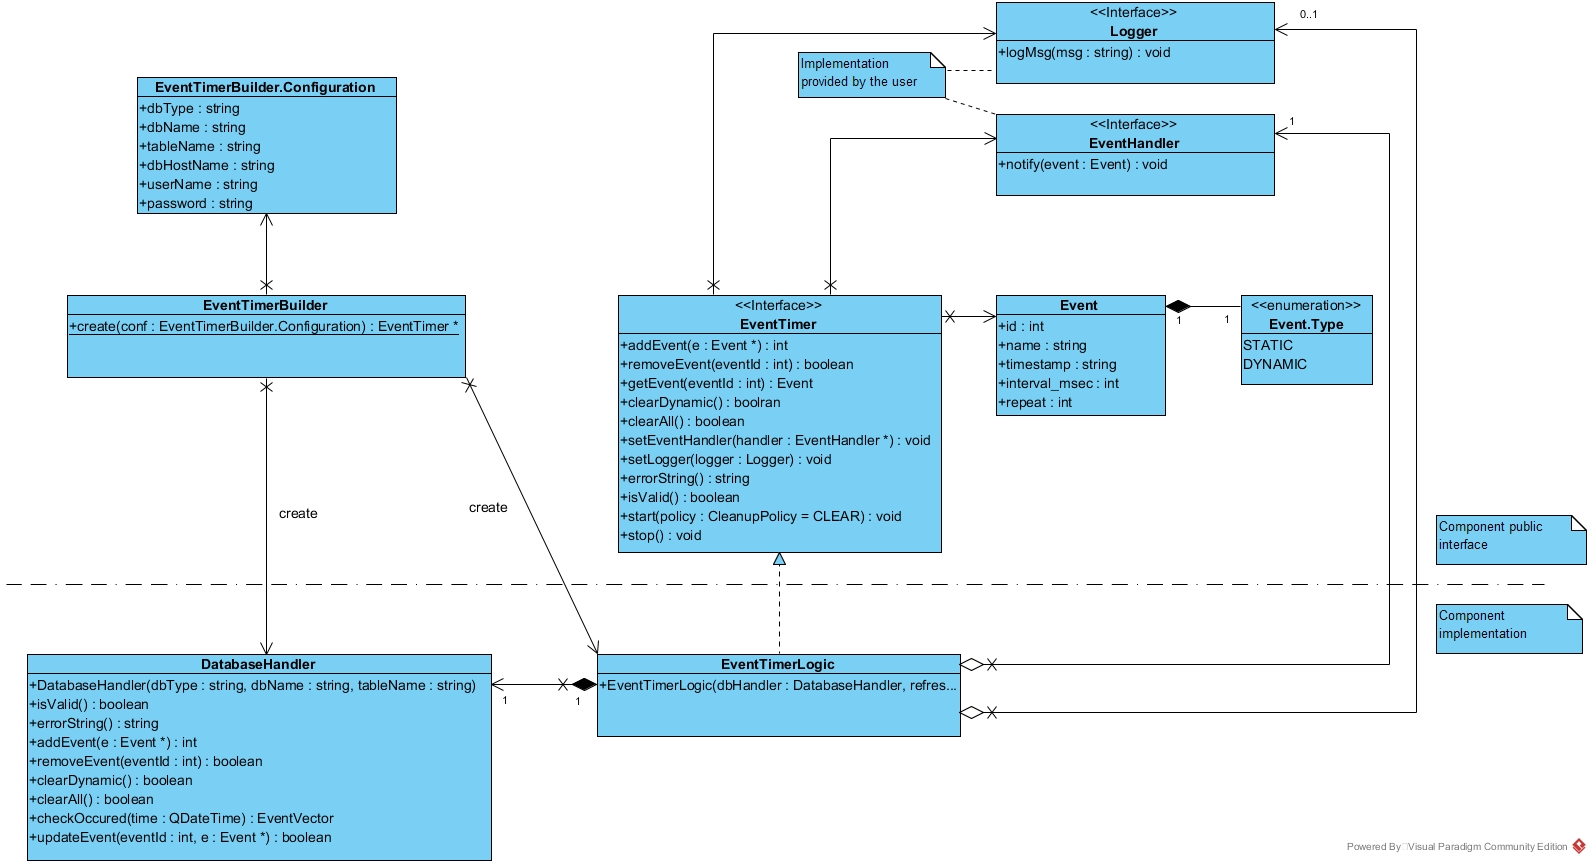
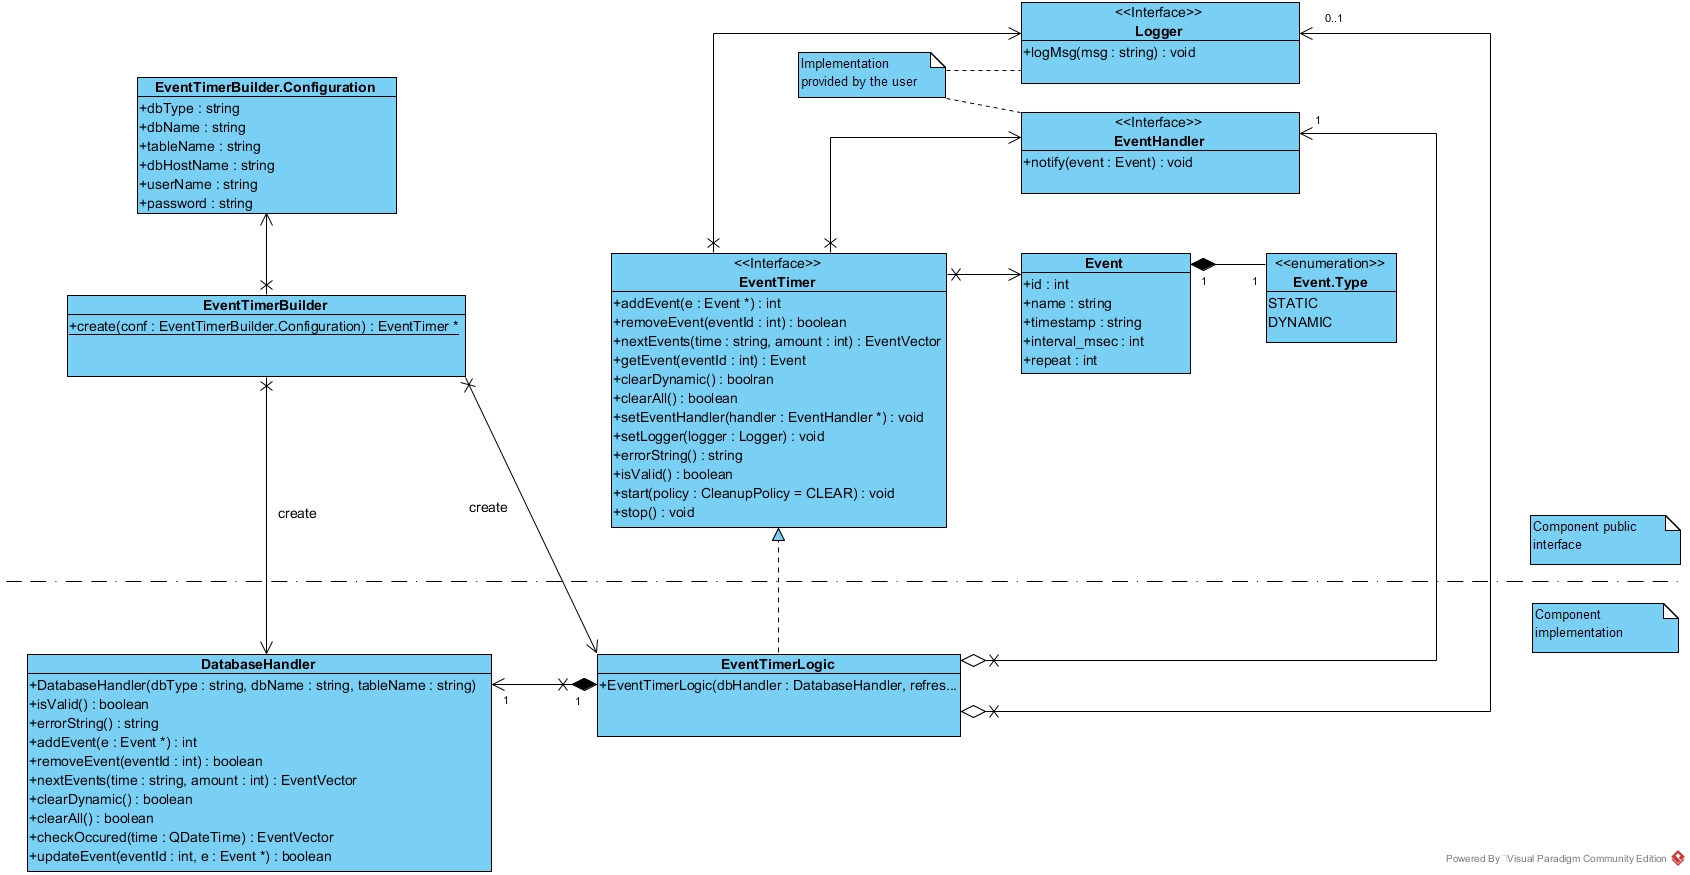
Implemented getting next events.

diff --git a/UnitTests/DatabaseHandlerBenchmark/tst_databasehandlerbenchmark.cc b/UnitTests/DatabaseHandlerBenchmark/tst_databasehandlerbenchmark.cc
@@ -47,6 +47,12 @@ private Q_SLOTS:
     void getEventSingle_data();
 
     /**
+     * @brief Test getting next events in relatively small db (get 3 out of 20).
+     */
+    void nextEventsBenchmark();
+    void nextEventsBenchmark_data();
+
+    /**
      * @brief Benchmark adding, updating and removing single element.
      */
     void addUpdateRemoveSingleEvent();
@@ -79,6 +85,18 @@ private Q_SLOTS:
      */
     void get500ExpiredEvents();
     void get500ExpiredEvents_data();
+
+    /**
+     * @brief Benchmark getting next event from db of 1000 events.
+     */
+    void oneNextEventsFromThousandEvents();
+    void oneNextEventsFromThousandEvents_data();
+
+    /**
+     * @brief Benchmark getting 1000 next events from db of 1001 events.
+     */
+    void thousandNextEvents();
+    void thousandNextEvents_data();
 
     /**
      * @brief Benchmark clearing 500 dynamic events.
@@ -242,6 +260,49 @@ void DatabaseHandlerBenchmark::getEventSingle()
 
 
 void DatabaseHandlerBenchmark::getEventSingle_data()
+{
+    constructorBenchmark_data();
+}
+
+
+void DatabaseHandlerBenchmark::nextEventsBenchmark()
+{
+    QFETCH(QString, dbType);
+    QFETCH(QString, dbName);
+    QFETCH(QString, tableName);
+    QFETCH(QString, dbHost);
+    QFETCH(QString, userName);
+    QFETCH(QString, password);
+
+    using namespace EventTimerNS;
+    std::shared_ptr<DatabaseHandler> handler =
+            this->initDB(dbType, dbName, tableName, dbHost, userName, password);
+    handler->clearAll();
+
+    // Add 17 past events
+    for (unsigned i=1; i<=17; ++i){
+        Event e("past"+QString::number(i),
+                QDateTime::currentDateTime().addDays(-i).toString(Event::TIME_FORMAT),
+                Event::STATIC, 0, 0);
+        QVERIFY(handler->addEvent(&e) != Event::UNASSIGNED_ID);
+    }
+    // Add 3 future events
+    for (unsigned i=0; i<3; ++i){
+        Event e("future"+QString::number(i),
+                QDateTime::currentDateTime().addDays(-i).toString(Event::TIME_FORMAT),
+                Event::STATIC, 0, 0);
+        QVERIFY(handler->addEvent(&e) != Event::UNASSIGNED_ID);
+    }
+
+    std::vector<Event> events;
+
+    QBENCHMARK {
+        events = handler->nextEvents(QDateTime::currentDateTime().toString(Event::TIME_FORMAT), 3u);
+    }
+}
+
+
+void DatabaseHandlerBenchmark::nextEventsBenchmark_data()
 {
     constructorBenchmark_data();
 }
@@ -455,6 +516,72 @@ void DatabaseHandlerBenchmark::get500ExpiredEvents_data()
 }
 
 
+void DatabaseHandlerBenchmark::oneNextEventsFromThousandEvents()
+{
+    QFETCH(QString, dbType);
+    QFETCH(QString, dbName);
+    QFETCH(QString, tableName);
+    QFETCH(QString, dbHost);
+    QFETCH(QString, userName);
+    QFETCH(QString, password);
+    QVERIFY(events_.size() == 1000);
+
+    using namespace EventTimerNS;
+    std::shared_ptr<DatabaseHandler> handler =
+            this->initDB(dbType, dbName, tableName, dbHost, userName, password);
+
+    QDateTime lastEventTime = QDateTime::fromString(handler->getEvent(999).timestamp(), Event::TIME_FORMAT);
+    Event e("name1001", lastEventTime.addDays(1).toString(Event::TIME_FORMAT),
+            Event::STATIC, 0, 0);
+    handler->addEvent(&e);
+    QString lastEventTimeStr = lastEventTime.toString(Event::TIME_FORMAT);
+
+    QBENCHMARK {
+        QCOMPARE(handler->nextEvents(lastEventTimeStr, 1).size(),
+                 std::vector<Event>::size_type(1));
+    }
+}
+
+
+void DatabaseHandlerBenchmark::oneNextEventsFromThousandEvents_data()
+{
+    constructorBenchmark_data();
+}
+
+
+void DatabaseHandlerBenchmark::thousandNextEvents()
+{
+    QFETCH(QString, dbType);
+    QFETCH(QString, dbName);
+    QFETCH(QString, tableName);
+    QFETCH(QString, dbHost);
+    QFETCH(QString, userName);
+    QFETCH(QString, password);
+    QVERIFY(events_.size() == 1000);
+
+    using namespace EventTimerNS;
+    std::shared_ptr<DatabaseHandler> handler =
+            this->initDB(dbType, dbName, tableName, dbHost, userName, password);
+
+    QDateTime firstEventTime = QDateTime::fromString(handler->getEvent(1000).timestamp(), Event::TIME_FORMAT);
+    Event e("name1002", firstEventTime.addDays(1).toString(Event::TIME_FORMAT),
+            Event::STATIC, 0, 0);
+    handler->addEvent(&e);
+    QString firstEventTimeStr = firstEventTime.toString(Event::TIME_FORMAT);
+
+    QBENCHMARK {
+        QCOMPARE(handler->nextEvents(firstEventTimeStr, 1000).size(),
+                 std::vector<Event>::size_type(1000));
+    }
+}
+
+
+void DatabaseHandlerBenchmark::thousandNextEvents_data()
+{
+    constructorBenchmark_data();
+}
+
+
 void DatabaseHandlerBenchmark::clear500DynamicEvents()
 {
     QFETCH(QString, dbType);
@@ -539,9 +666,9 @@ void DatabaseHandlerBenchmark::removeThousandEvents()
     // Re-populate database.
     for (unsigned i=0; i<events_.size(); ++i){
         QVERIFY(handler->getEvent(events_[i].id()).id() == Event::UNASSIGNED_ID);
-        // Note: violates precondition. Works with release build only.
-        // Violation has no undesired side effects in this case.
-        QVERIFY(handler->addEvent(&(events_[i])) != Event::UNASSIGNED_ID);
+        Event e = events_[i].copy();
+        QVERIFY(handler->addEvent(&e) != Event::UNASSIGNED_ID);
+        QCOMPARE(e.id(), events_[i].id());
     }
 
     QBENCHMARK_ONCE {

diff --git a/UnitTests/DatabaseHandlerTest/tst_databasehandlertest.cc b/UnitTests/DatabaseHandlerTest/tst_databasehandlertest.cc
@@ -71,6 +71,12 @@ private Q_SLOTS:
     void checkOccuredTest_data();
 
     /**
+     * @brief Test the nextEvents method.
+     */
+    void nextEventsTest();
+    void nextEventsTest_data();
+
+    /**
      * @brief Test adding event and removing them imediately.
      */
     void addRemoveTest();
@@ -435,6 +441,61 @@ void DatabaseHandlerTest::checkOccuredTest()
 
 
 void DatabaseHandlerTest::checkOccuredTest_data()
+{
+    addEventsTest_data();
+}
+
+
+void DatabaseHandlerTest::nextEventsTest()
+{
+    QFETCH(QString, dbType);
+    QFETCH(QString, dbName);
+    QFETCH(QString, tableName);
+    QFETCH(QString, dbHost);
+    QFETCH(QString, userName);
+    QFETCH(QString, password);
+
+    using namespace EventTimerNS;
+    std::shared_ptr<DatabaseHandler> handler =
+            setupDB(dbType, dbName, tableName, dbHost, userName, password);
+    QString timeNow = QDateTime::currentDateTime().toString(Event::TIME_FORMAT);
+    std::vector<Event> futureEvents;
+
+    // Emty db produces empty list of next events without errors
+    QCOMPARE(handler->nextEvents(QDateTime::currentDateTime().toString(Event::TIME_FORMAT), 100).size(),
+             std::vector<Event>::size_type(0));
+    QVERIFY(handler->errorString().isEmpty());
+    QVERIFY(handler->isValid());
+
+    // Add some events
+    for (unsigned i=1; i<10; ++i){
+        Event e("name" + QString::number(i),
+                QDateTime::currentDateTime().addDays(i).toString(Event::TIME_FORMAT),
+                i%2==0 ? Event::DYNAMIC : Event::STATIC,
+                1000*i, i);
+        QVERIFY(handler->addEvent(&e) != Event::UNASSIGNED_ID);
+        QCOMPARE(e.id(), i);
+        futureEvents.push_back(e);
+    }
+
+    // Add one passed event
+    Event e("expired", QDateTime::currentDateTime().addDays(-1).toString(Event::TIME_FORMAT), Event::STATIC);
+    QVERIFY(handler->addEvent(&e) != Event::UNASSIGNED_ID);
+
+    // Verify that correct future events are in the result list, and expired event is not.
+    for (unsigned i=1; i<futureEvents.size(); ++i){
+        std::vector<Event> nextEvents = handler->nextEvents(timeNow, i);
+        QVERIFY(handler->isValid());
+        QVERIFY(handler->errorString().isEmpty());
+        QCOMPARE(nextEvents.size(), std::vector<Event>::size_type(i));
+        for (unsigned j=0; j<nextEvents.size(); ++j){
+            this->compareEvents(nextEvents[j], futureEvents[j]);
+        }
+    }
+}
+
+
+void DatabaseHandlerTest::nextEventsTest_data()
 {
     addEventsTest_data();
 }

diff --git a/UnitTests/EventTimerLogicTest/tst_eventtimerlogictest.cc b/UnitTests/EventTimerLogicTest/tst_eventtimerlogictest.cc
@@ -82,6 +82,12 @@ private Q_SLOTS:
     void removeEvent_data();
 
     /**
+     * @brief Test getting next events.
+     */
+    void nextEventsTest();
+    void nextEventsTest_data();
+
+    /**
      * @brief Test clearing dynamic events.
      */
     void clearDynamicTest();
@@ -256,6 +262,50 @@ void EventTimerLogicTest::removeEvent()
 
 
 void EventTimerLogicTest::removeEvent_data()
+{
+    invalidBuildetTest_data();
+}
+
+
+void EventTimerLogicTest::nextEventsTest()
+{
+    QFETCH(EventTimerNS::EventTimerBuilder::Configuration, conf);
+
+    using namespace EventTimerNS;
+    std::shared_ptr<EventTimer> timer(EventTimerBuilder::create(conf));
+    LoggerStub logger;
+    HandlerStub handler;
+    timer->clearAll();
+    timer->setLogger(&logger);
+    timer->setEventHandler(&handler);
+
+    // Add future events
+    std::vector<Event> events;
+    for (unsigned i=1; i<=10; ++i){
+        Event e ("name" + QString::number(i),
+                 QDateTime::currentDateTime().addDays(1).toString(Event::TIME_FORMAT),
+                i%2==0 ? Event::DYNAMIC : Event::STATIC, 1000*i, i);
+        QVERIFY(timer->addEvent(&e) == i);
+        events.push_back(e);
+    }
+
+    // Add past events
+    Event expired("expired", QDateTime::currentDateTime().addDays(-1).toString(Event::TIME_FORMAT),
+                  Event::STATIC, 10000, 2);
+    QVERIFY(timer->addEvent(&expired) != Event::UNASSIGNED_ID);
+
+    // Test that correct number of future events are returned
+    for (unsigned i=1; i <= events.size()+1; ++i){
+        std::vector<Event> nextEvents = timer->nextEvents(i);
+        QCOMPARE(nextEvents.size(), (i>events.size() ? events.size() : i) );
+        for (unsigned j=0; j<nextEvents.size(); ++j){
+            this->compareEvents(events.at(j), nextEvents.at(j));
+        }
+    }
+}
+
+
+void EventTimerLogicTest::nextEventsTest_data()
 {
     invalidBuildetTest_data();
 }

diff --git a/EventTimer/src/databasehandler.cc b/EventTimer/src/databasehandler.cc
@@ -48,7 +48,7 @@ QString DatabaseHandler::errorString() const
 unsigned DatabaseHandler::addEvent(Event* e)
 {
     Q_ASSERT(e != nullptr);
-    Q_ASSERT(e->id() == -1);
+    Q_ASSERT(e->id() == Event::UNASSIGNED_ID);
     Q_ASSERT(this->isValid());
 
     QSqlQuery q("INSERT INTO " + tableName_ +
@@ -83,6 +83,39 @@ bool DatabaseHandler::removeEvent(unsigned eventId)
         return false;
     }
     return true;
+}
+
+
+std::vector<Event> DatabaseHandler::nextEvents(QString time, unsigned amount)
+{
+    Q_ASSERT( QDateTime::fromString(time, Event::TIME_FORMAT).isValid() );
+    Q_ASSERT( amount != 0 );
+
+    // Execute query.
+    QSqlQuery q("SELECT * FROM " + tableName_ + " WHERE timestamp > '" + time + "' ORDER BY timestamp", db_);
+    if (q.lastError().type() != QSqlError::NoError){
+        errorString_ = q.lastError().text();
+        return std::vector<Event>();
+    }
+
+    // Gather list of up to 'amount' events from query results.
+    std::vector<Event> events;
+    unsigned i=0;
+    while (i<amount && q.next()){
+        Event e;
+        e.setId( q.value("id").toUInt() );
+        e.setName( q.value("name").toString() );
+        e.setTimestamp( q.value("timestamp").toString() );
+        e.setType( q.value("static").toInt() == 0 ? Event::DYNAMIC : Event::STATIC );
+        e.setInterval( q.value("interval").toUInt() );
+        e.setRepeats( q.value("repeats").toUInt() );
+        Q_ASSERT(e.isValid());
+        events.push_back(e);
+        ++i;
+    }
+
+    errorString_.clear();
+    return events;
 }
 
 

diff --git a/EventTimer/src/eventtimerlogic.cc b/EventTimer/src/eventtimerlogic.cc
@@ -81,7 +81,15 @@ Event EventTimerLogic::getEvent(unsigned eventId)
 
 std::vector<Event> EventTimerLogic::nextEvents(unsigned amount)
 {
-    return std::vector<Event>(amount);
+    Q_ASSERT(amount != 0);
+
+    std::vector<Event> events = dbHandler_->nextEvents(QDateTime::currentDateTime().toString(Event::TIME_FORMAT), amount);
+
+    if (events.size() == 0 && !dbHandler_->errorString().isEmpty()){
+        logMessage("Could not get next events: " + dbHandler_->errorString());
+    }
+
+    return events;
 }
 
 
